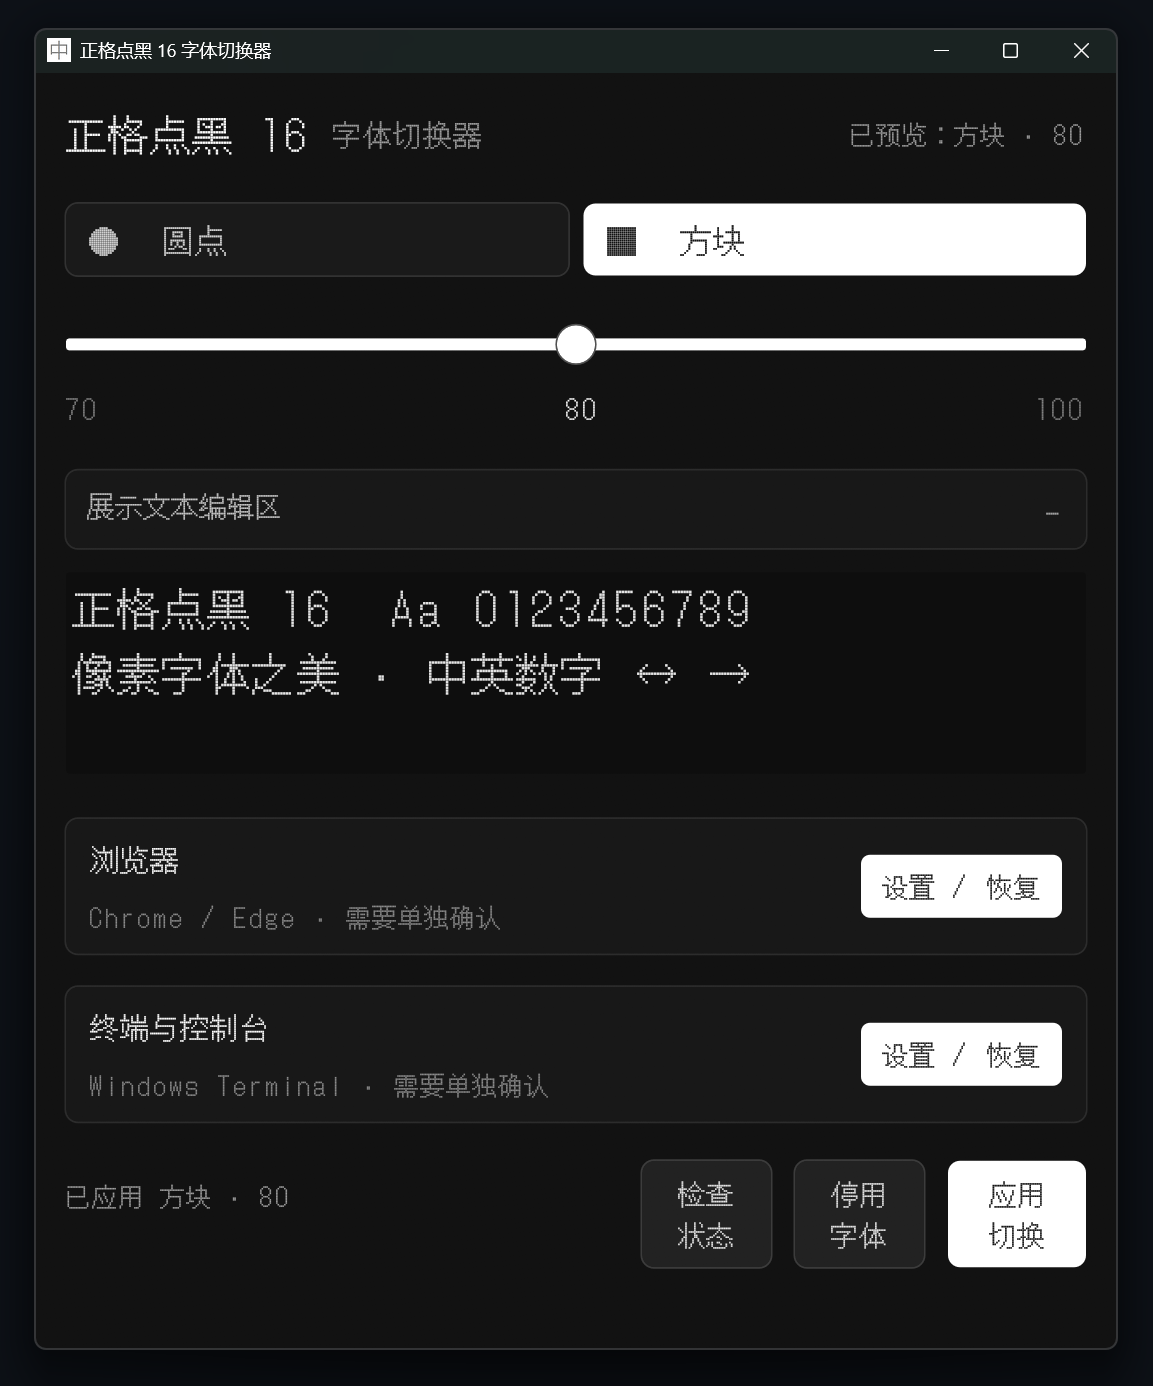
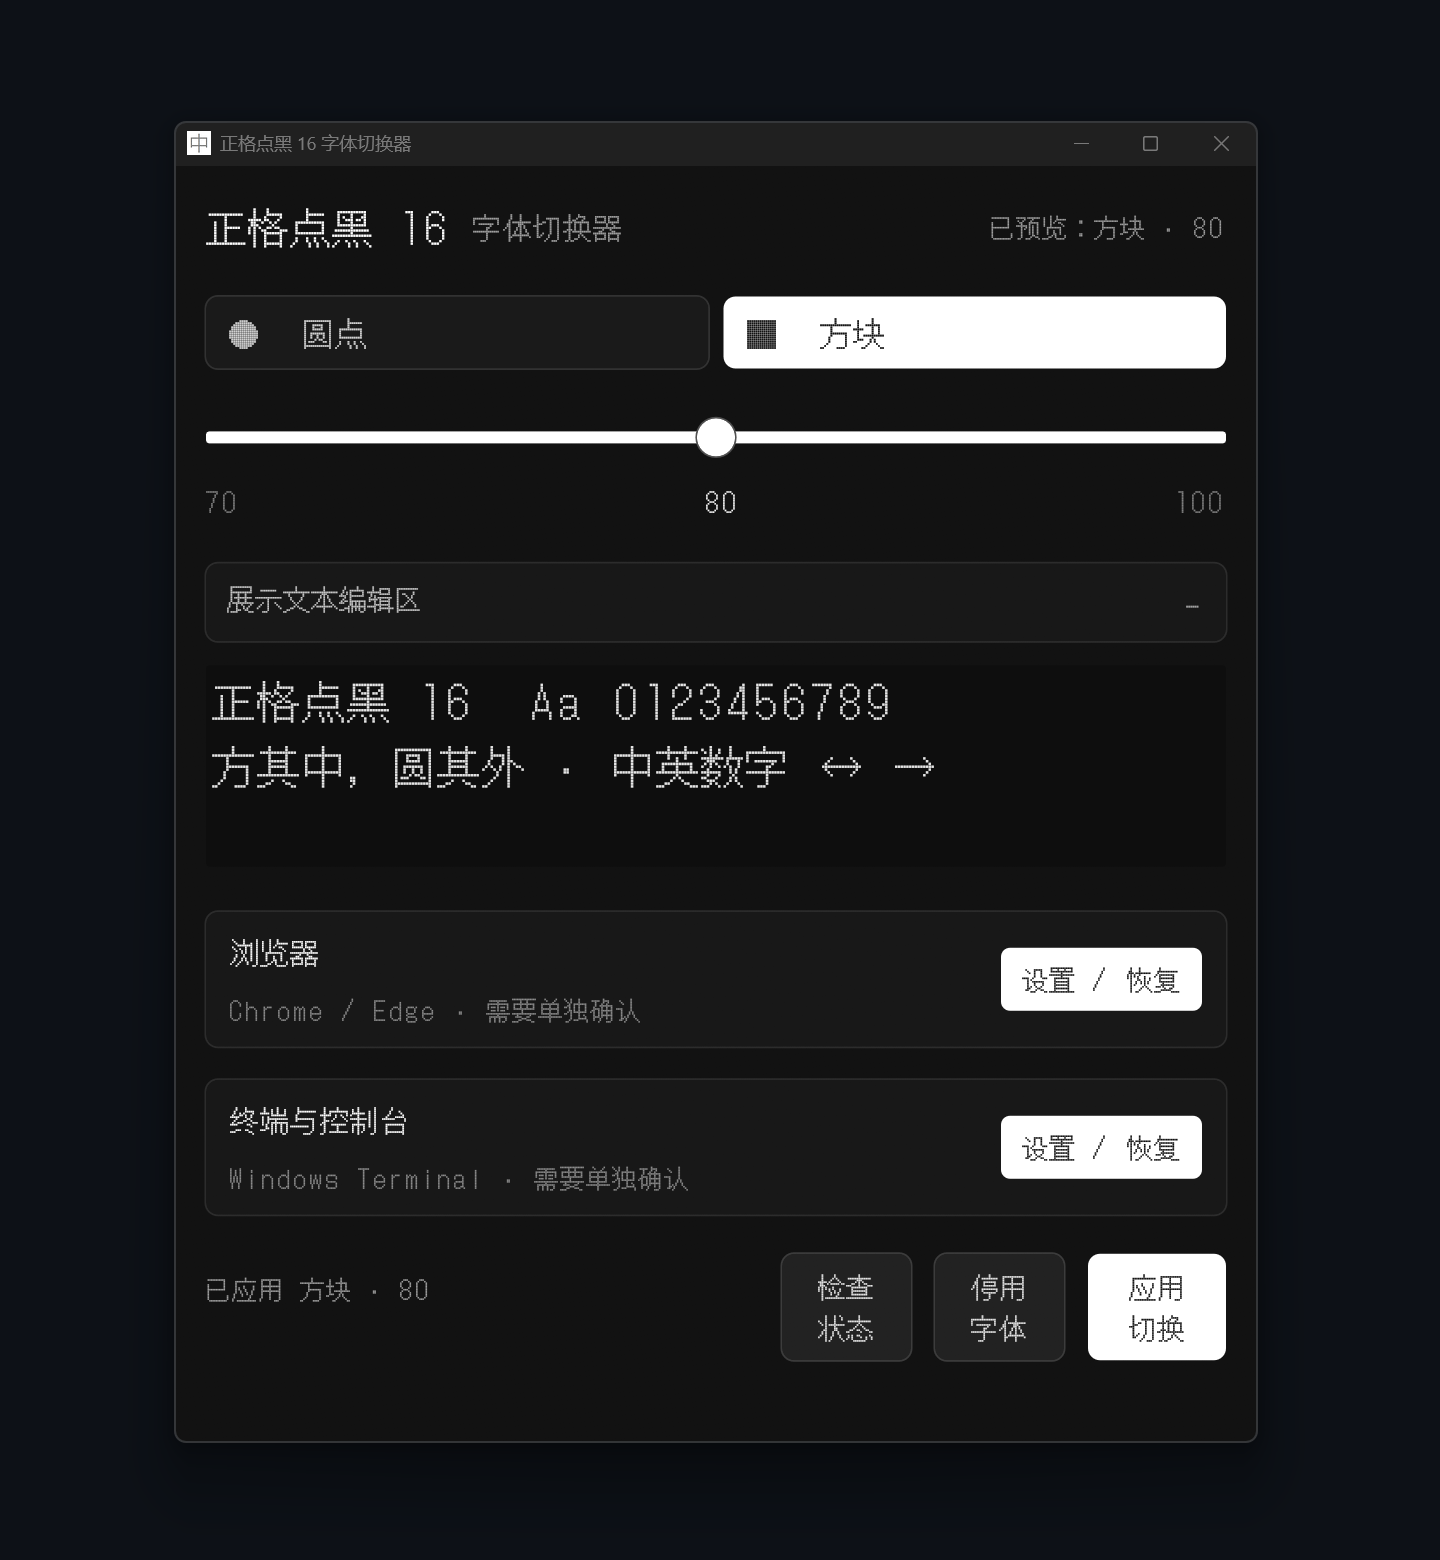
feat: rename to 正格点黑 针印式, update preview image, credit both upstream projects
The formal name is now 正格点黑 针印式 (ZhengGeDianHei-Dotted). README now credits both yzdnn/ZhengGeDianHei-16 and DotGothic16. Added FAQ entry comparing with 点点像素体. Replaced app.png with a new screenshot.

diff --git a/README.md b/README.md
@@ -1,12 +1,12 @@
-# 正格点黑 16（ZhengGeDianHei-Dotted）
+# 正格点黑 针印式（ZhengGeDianHei-Dotted）
 
-基于 [DotGothic16](https://github.com/fontworks-fonts/DotGothic16/) 衍生的 **16px 像素中文字体**，附带 Windows 字体切换器与浏览器扩展，可在圆点 / 方块多种密度变体之间一键切换。
+基于 [yzdnn/ZhengGeDianHei-16](https://github.com/yzdnn/ZhengGeDianHei-16) 与 [DotGothic16](https://github.com/fontworks-fonts/DotGothic16/) 二次开发的 **16px 像素黑体**，适用于记事本、终端（可选）、浏览器（可选）等场景。附带 Windows 字体切换器与浏览器扩展，可在圆点 / 方块多种密度变体之间一键切换。
 
 | 组件 | 说明 |
 | --- | --- |
 | **字体包** | 圆点 70/80/90、方块 70/80/100（原版），各含全宽与半宽（终端兼容） |
 | **字体切换器** | Windows 原生 EXE（Rust + egui），安装 / 切换 / 停用系统字体，并写入 Chrome、Edge、Windows Terminal 偏好 |
-| **浏览器扩展** | Chrome / Edge Manifest V3，强制网页使用「正格点黑 16」，自动保留图标字体与 emoji |
+| **浏览器扩展** | Chrome / Edge Manifest V3，强制网页使用「正格点黑 针印式」，自动保留图标字体与 emoji |
 
 许可证：[SIL Open Font License 1.1](./LICENSE)
 
@@ -120,7 +120,7 @@
 
 ### 使用
 
-- 默认开启：网页正文字体强制为「正格点黑 16」
+- 默认开启：网页正文字体强制为「正格点黑 针印式」
 - 自动保留 Material Icons / Font Awesome / iconfont 等图标字体
 - emoji 走系统回退，不受影响
 - 点击扩展图标可开关
@@ -218,9 +218,13 @@ A: 已知兼容问题。请改用 Chrome，或安装本仓库扩展。
 **Q: 终端里符号和汉字叠在一起？**  
 A: 勾选「窄终端兼容模式」，重新 **应用切换** 后再 **应用终端字体**。
 
+**Q: 本字体与点点像素体有什么区别？**  
+A: [点点像素体](https://github.com/wixette/dotted-chinese-fonts) 为 12px 宋体（衬线），本字体为 16px 黑体（无衬线），像素密度更高、字形更清晰，更符合我的审美。
+
 ---
 
 ## 致谢
 
-- 基底风格与开源许可来自 [DotGothic16](https://github.com/fontworks-fonts/DotGothic16/)（Fontworks / SIL OFL 1.1）
+- 基底字体来自 [yzdnn/ZhengGeDianHei-16](https://github.com/yzdnn/ZhengGeDianHei-16)（SIL OFL 1.1），在原版「ドットゴシック16」基础上增补了简繁汉字
+- 日文字形来源 [DotGothic16](https://github.com/fontworks-fonts/DotGothic16/)（Fontworks / SIL OFL 1.1）
 - 切换器 UI： [egui](https://github.com/emilk/egui) / eframe
